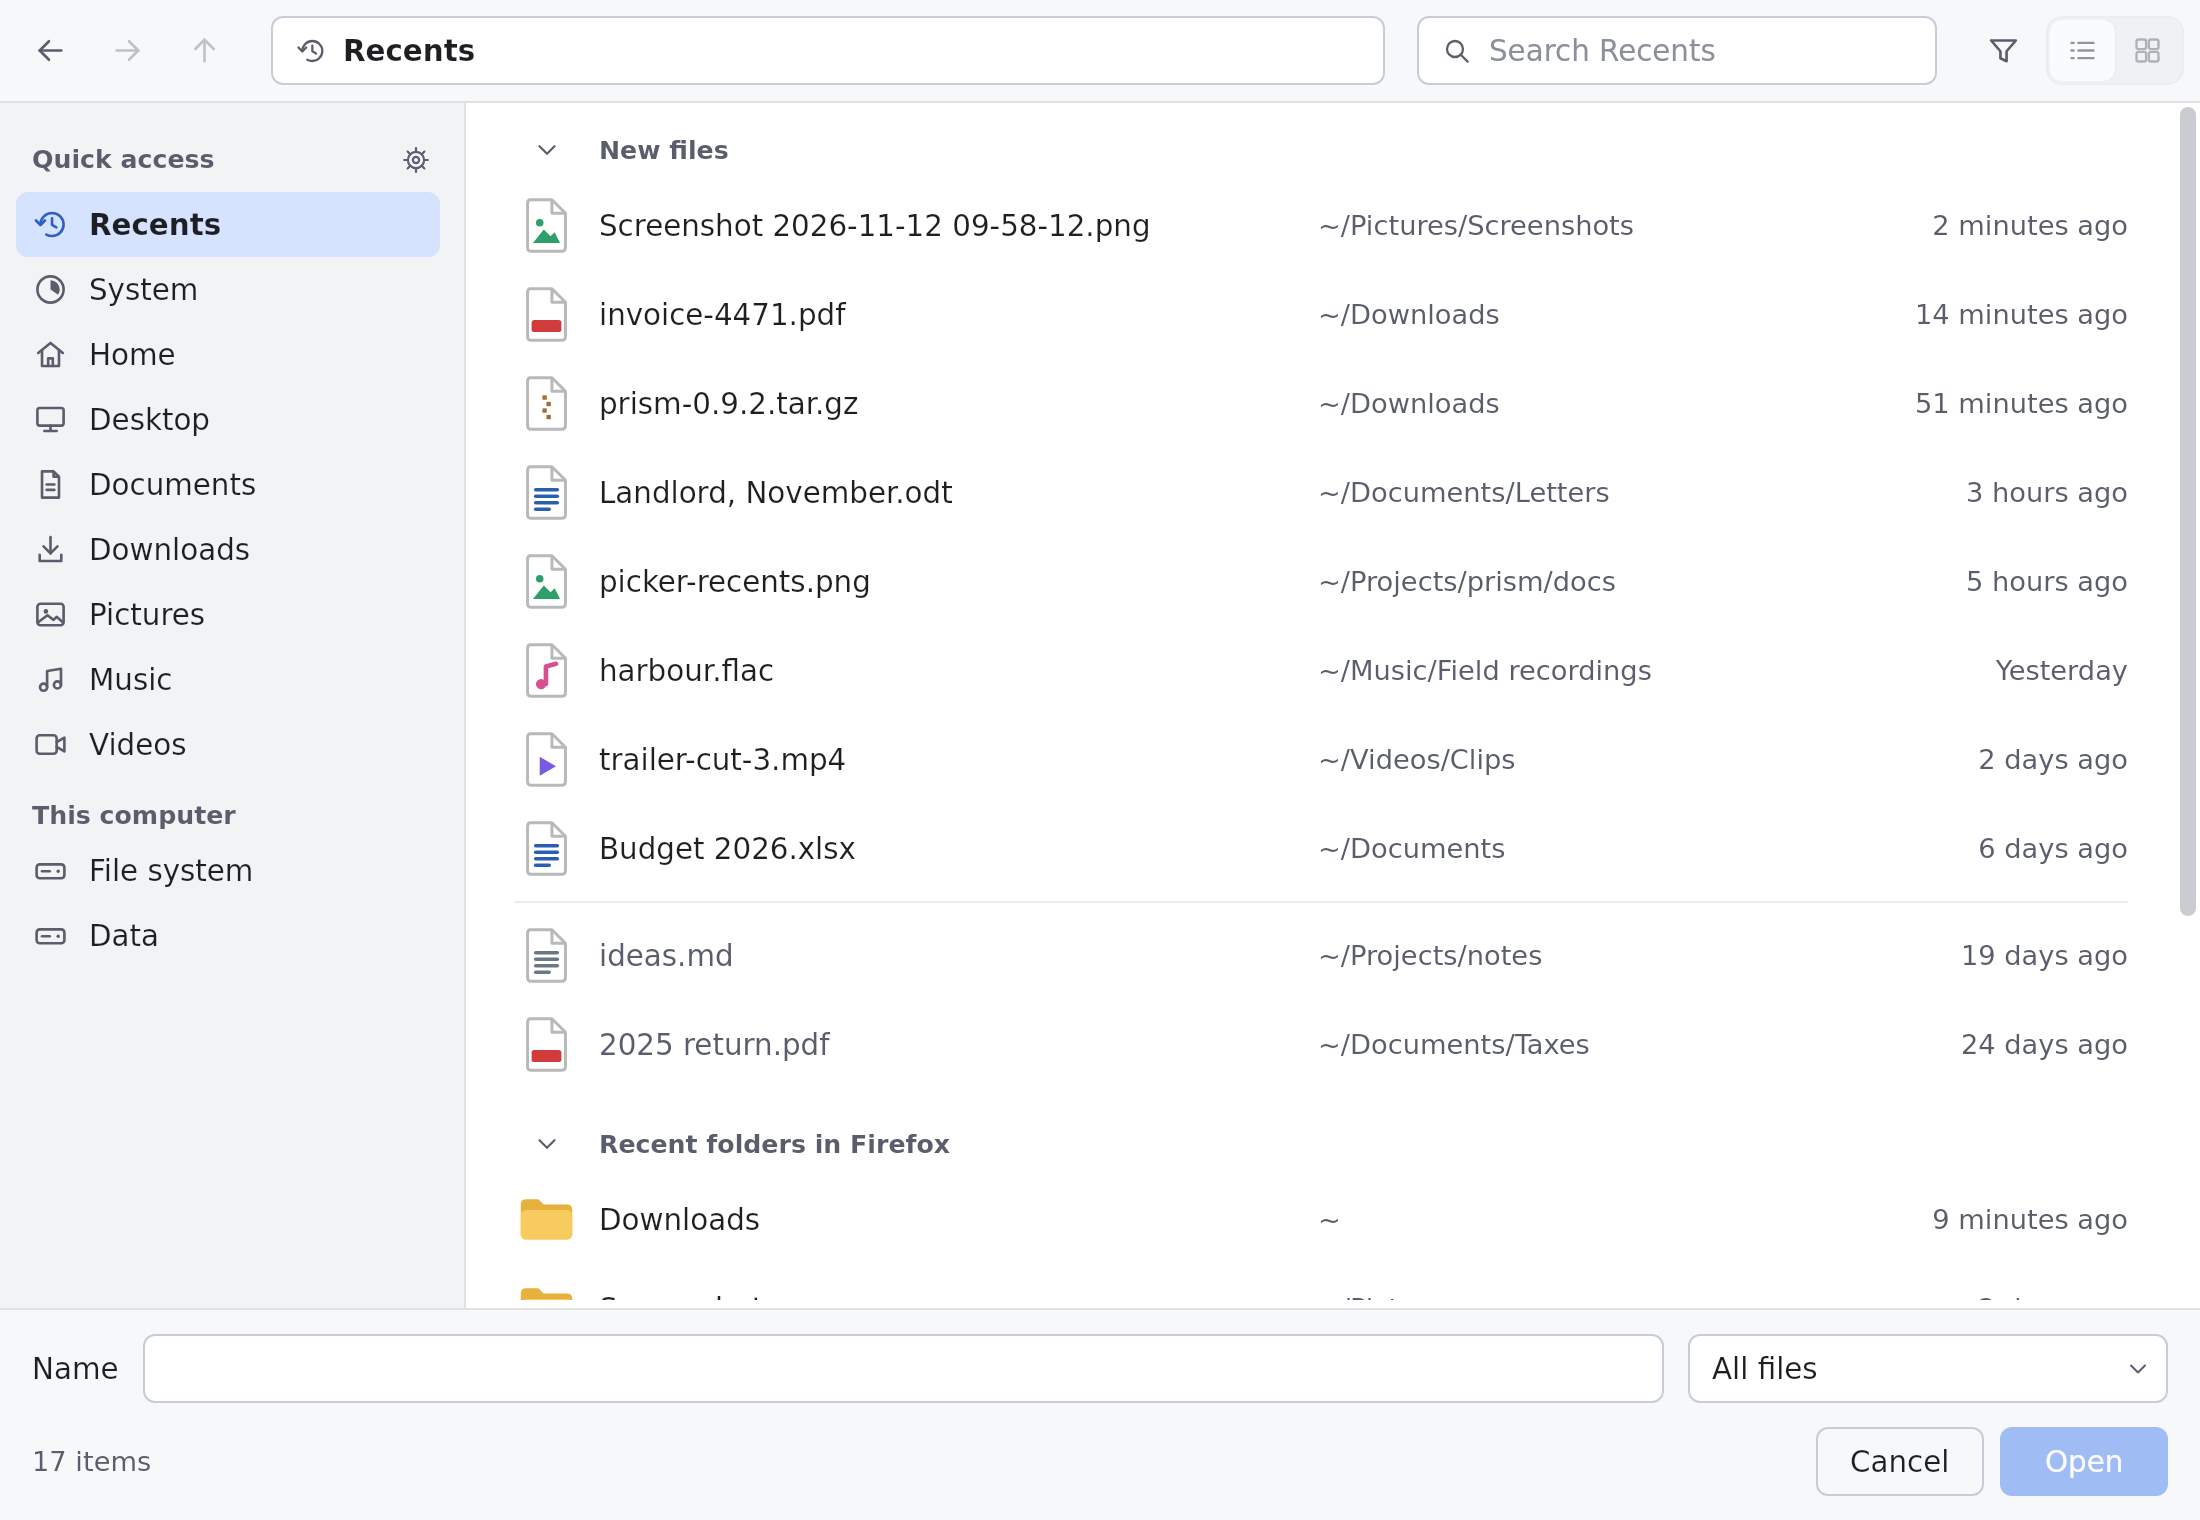
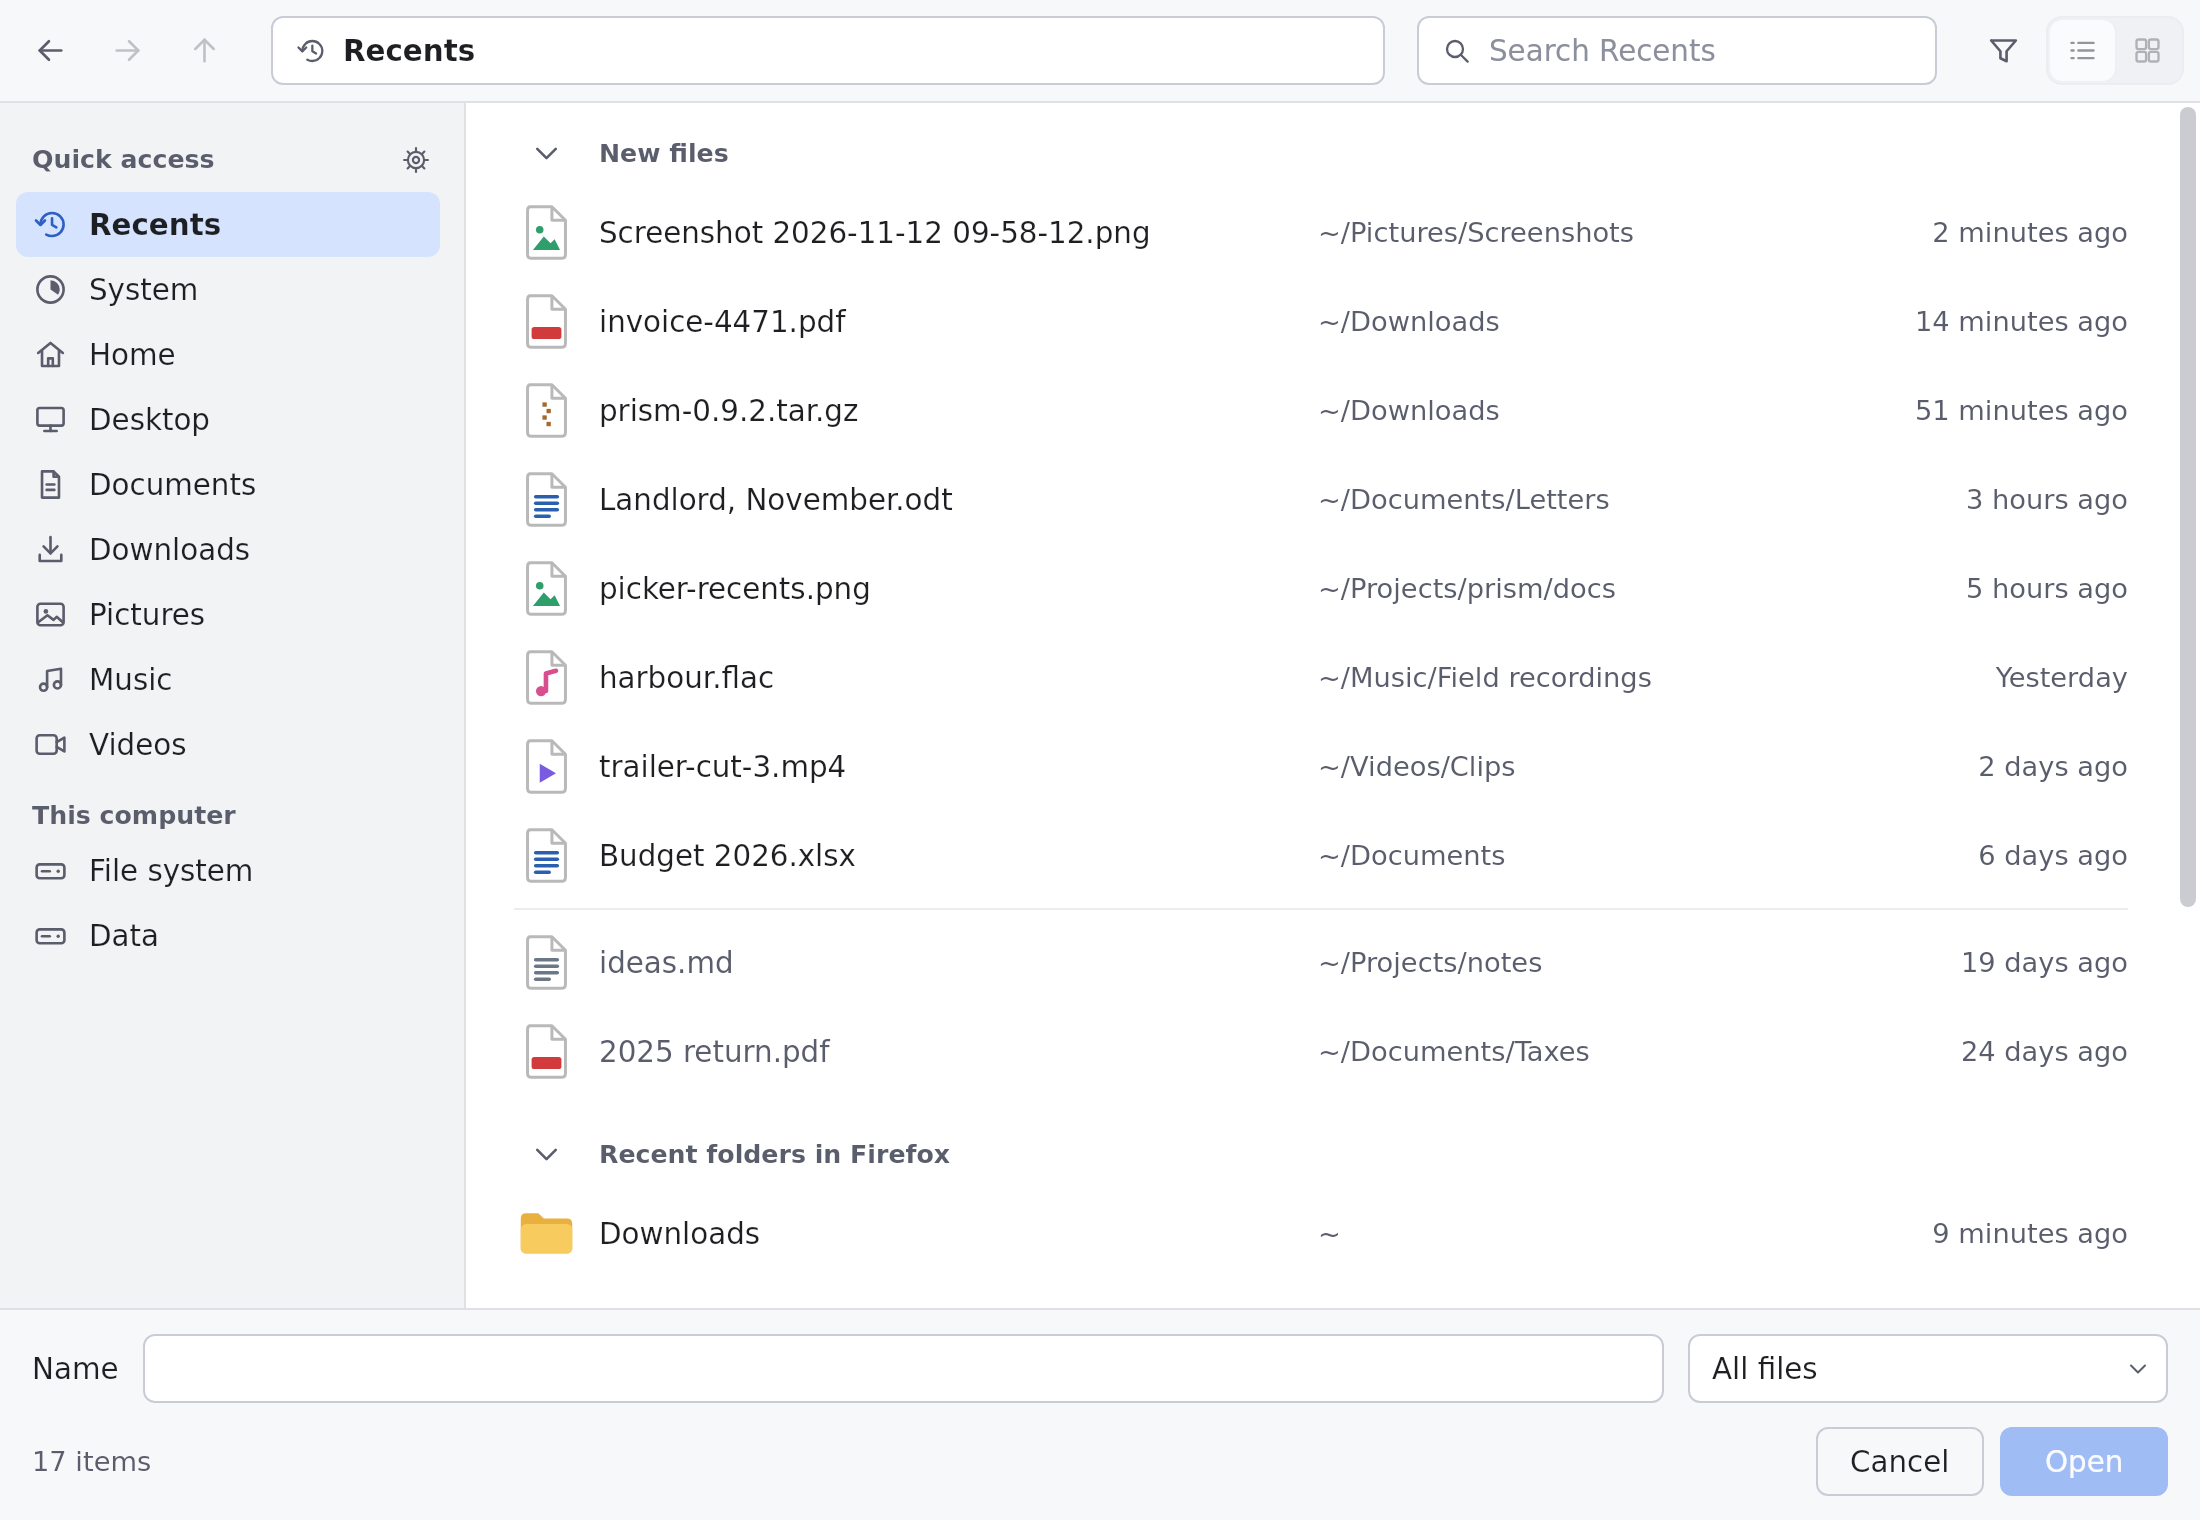
A Recents heading is folded by the System page's button, which alone is lit under the pointer
The heading was lit from one edge of the listing to the other, as a row is, which a heading is not. Its arrow
is now the button that folds a store on the System page, at that size, over the rows' icons, with what it does
said as that page says it ("Hide files", "Show folders"). The title is still pressed to the same end, being the
larger thing to press, and only darkens under the pointer.

Claude-Session: https://claude.ai/code/session_01J1r69Jaca9mCPXayHaXTAB

diff --git a/browser/src/main/kotlin/prism/browser/recentsview.kt b/browser/src/main/kotlin/prism/browser/recentsview.kt
@@ -16,7 +16,6 @@ import androidx.compose.foundation.layout.fillMaxWidth
 import androidx.compose.foundation.layout.height
 import androidx.compose.foundation.layout.padding
 import androidx.compose.foundation.layout.width
-import androidx.compose.foundation.shape.RoundedCornerShape
 import androidx.compose.material3.Text
 import androidx.compose.runtime.Composable
 import androidx.compose.runtime.getValue
@@ -24,7 +23,6 @@ import androidx.compose.runtime.remember
 import androidx.compose.runtime.rememberUpdatedState
 import androidx.compose.ui.Alignment
 import androidx.compose.ui.Modifier
-import androidx.compose.ui.graphics.Color
 import androidx.compose.ui.input.pointer.isPrimaryPressed
 import androidx.compose.ui.input.pointer.pointerInput
 import androidx.compose.ui.platform.testTag
@@ -126,9 +124,11 @@ internal fun RecentHeadings(
 }
 
 /**
- * A section's heading: an arrow (down where the section is open, across where it is collapsed), its title, and,
- * collapsed, how many entries it holds. All of it is pressed to collapse the section or open it, and says so under
- * the pointer. The arrow sits where the rows' icons do, and the title where their names start.
+ * A section's heading: the button that folds it (the System page's, for its stores: an arrow down where the section
+ * is open, across where it is collapsed), its title, and, collapsed, how many entries it holds. The button is
+ * pressed to collapse the section or open it, and so is the title, which is the larger thing to press; the button
+ * alone is lit under the pointer, and the title only darkens. The button sits over the rows' icons, and the title
+ * where their names start.
  */
 @Composable
 private fun RecentHeading(
@@ -144,68 +144,79 @@ private fun RecentHeading(
 	val toggle by rememberUpdatedState { onToggle(heading.kind.section) }
 	val does =
 		if (heading.collapsed)
-			"Expand"
+			"Show ${heading.kind.holds}"
 		else
-			"Collapse"
+			"Hide ${heading.kind.holds}"
+	// The rows' icons, which the button is centred over, and what is between an icon and its row's name.
+	val icon = rowIconOf(LocalRows.current, type) * zoom
+	val button = type.control
+	val named = (Space.s + Space.xxs) * zoom
 
 	Row(
 		Modifier
 			.padding(top = over)
 			.fillMaxWidth()
-			.background(
-				if (hovered)
-					palette.hover
-				else
-					Color.Transparent,
-				RoundedCornerShape(Radius.medium),
-			).hoverable(hover)
-			// Pressed as a row is: taken as it goes down, so that it is no press of the space between the rows.
-			.pointerInput(Unit) {
-				awaitEachGesture {
-					val down = awaitFirstDown()
-
-					if (currentEvent.buttons.isPrimaryPressed) {
-						down.consume()
-						waitForUpOrCancellation()?.let {
-							it.consume()
-							toggle()
-						}
-					}
-				}
-			}.semantics {
-				role = Role.Button
-				onClick(does) {
-					toggle()
-
-					true
-				}
-			}.testTag("recent-section:${heading.kind.title}")
-			.padding(horizontal = Dims.edge + Dims.cell, vertical = Space.s),
+			.padding(start = (Dims.edge + Dims.cell + (icon - button) / 2).coerceAtLeast(0.dp)),
 		verticalAlignment = Alignment.CenterVertically,
 	) {
-		Box(
-			Modifier.width(rowIconOf(LocalRows.current, type) * zoom),
-			contentAlignment = Alignment.Center,
+		ToolButton(
+			if (heading.collapsed)
+				Glyph.Chevron
+			else
+				Glyph.ChevronDown,
+			does,
+			enabled = true,
+			Modifier.testTag("recent-fold:${heading.kind.title}"),
+			onClick = toggle,
+		)
+		Spacer(Modifier.width((icon / 2 + named - button / 2).coerceAtLeast(Space.xs)))
+		Row(
+			Modifier
+				.hoverable(hover)
+				// Pressed as a row is: taken as it goes down, so that it is no press of the space between the rows.
+				.pointerInput(Unit) {
+					awaitEachGesture {
+						val down = awaitFirstDown()
+
+						if (currentEvent.buttons.isPrimaryPressed) {
+							down.consume()
+							waitForUpOrCancellation()?.let {
+								it.consume()
+								toggle()
+							}
+						}
+					}
+				}.semantics {
+					role = Role.Button
+					onClick(does) {
+						toggle()
+
+						true
+					}
+				}.testTag("recent-section:${heading.kind.title}")
+				.padding(vertical = Space.xs),
+			verticalAlignment = Alignment.CenterVertically,
 		) {
-			GlyphIcon(
-				if (heading.collapsed)
-					Glyph.Chevron
-				else
-					Glyph.ChevronDown,
-				palette.textMuted,
-				type.icon * 0.8f * zoom,
-			)
-		}
-		Spacer(Modifier.width((Space.s + Space.xxs) * zoom))
-		Text(heading.kind.title, style = type.heading.times(zoom), maxLines = 1)
-		if (heading.collapsed) {
-			Spacer(Modifier.width(Space.s))
 			Text(
-				heading.count.toString(),
-				style = type.muted.times(zoom),
+				heading.kind.title,
+				style =
+					type.heading.times(zoom).let {
+						if (hovered)
+							it.copy(color = palette.text)
+						else
+							it
+					},
 				maxLines = 1,
-				modifier = Modifier.testTag("recent-count:${heading.kind.title}"),
 			)
+			if (heading.collapsed) {
+				Spacer(Modifier.width(Space.s))
+				Text(
+					heading.count.toString(),
+					style = type.muted.times(zoom),
+					maxLines = 1,
+					modifier = Modifier.testTag("recent-count:${heading.kind.title}"),
+				)
+			}
 		}
 	}
 }

diff --git a/browser/src/test/kotlin/prism/browser/recentstest.kt b/browser/src/test/kotlin/prism/browser/recentstest.kt
@@ -3,13 +3,20 @@ package prism.browser
 import androidx.compose.runtime.CompositionLocalProvider
 import androidx.compose.runtime.remember
 import androidx.compose.runtime.rememberCoroutineScope
+import androidx.compose.ui.geometry.Size
+import androidx.compose.ui.graphics.toAwtImage
 import androidx.compose.ui.input.key.Key
 import androidx.compose.ui.test.ExperimentalTestApi
+import androidx.compose.ui.test.captureToImage
 import androidx.compose.ui.test.onNodeWithTag
+import androidx.compose.ui.test.onRoot
 import androidx.compose.ui.test.performClick
 import androidx.compose.ui.test.performKeyInput
+import androidx.compose.ui.test.performMouseInput
 import androidx.compose.ui.test.pressKey
 import androidx.compose.ui.test.runComposeUiTest
+import androidx.compose.ui.test.runSkikoComposeUiTest
+import androidx.compose.ui.unit.Density
 import java.nio.file.Files
 import java.nio.file.Path
 import java.time.Clock
@@ -980,6 +987,59 @@ class RecentsTest {
 		)
 	}
 
+	/**
+	 * A heading under the pointer: its button alone is lit, and nothing across the row. Drawn in a window of the
+	 * test's, since only there is there a pointer to rest on it; what it draws is kept where the pictures are.
+	 */
+	@OptIn(ExperimentalTestApi::class)
+	@Test
+	fun aHeadingsButtonAloneIsLitUnderThePointer() {
+		val picker = drawn(Choosing.OneFile(), asker)
+		val one = step(picker, Answer.RecentsFolded(setOf(RecentSection.NewFiles))).state
+
+		for ((tone, palette) in listOf("light" to Palette.Light, "dark" to Palette.Dark))
+			runSkikoComposeUiTest(Size(2200f, 1520f), Density(2f)) {
+				setContent {
+					BrowserTheme(palette) {
+						CompositionLocalProvider(LocalMotion provides false) { FileBrowser(one) }
+					}
+				}
+				waitForIdle()
+
+				// On the button: lit, and what it does said.
+				onNodeWithTag("recent-fold:Recent folders in Firefox").performMouseInput {
+					moveTo(center)
+				}
+				waitForIdle()
+				screenshot(
+					"recents-heading-hovered-button-$tone",
+					onRoot().captureToImage().toAwtImage().let { image ->
+						java.io
+							.ByteArrayOutputStream()
+							.also {
+								javax.imageio.ImageIO.write(image, "png", it)
+							}.toByteArray()
+					},
+				)
+
+				// On the title: only darker.
+				onNodeWithTag("recent-section:Recent folders in Firefox").performMouseInput {
+					moveTo(center)
+				}
+				waitForIdle()
+				screenshot(
+					"recents-heading-hovered-title-$tone",
+					onRoot().captureToImage().toAwtImage().let { image ->
+						java.io
+							.ByteArrayOutputStream()
+							.also {
+								javax.imageio.ImageIO.write(image, "png", it)
+							}.toByteArray()
+					},
+				)
+			}
+	}
+
 	// ---- in the browser ----------------------------------------------------------------------------------------
 
 	private fun picker(
@@ -1253,9 +1313,10 @@ class RecentsTest {
 				},
 			)
 
-			// A heading pressed collapses its section: the rows go, the heading stays and says how many it holds,
-			// and it is kept where every window reads it. Pressed again, they are back.
-			onNodeWithTag("recent-section:Recent folders").performClick()
+			// A heading's button pressed collapses its section: the rows go, the heading stays and says how many
+			// it holds, and it is kept where every window reads it. Its title pressed does as the button does: they
+			// are back.
+			onNodeWithTag("recent-fold:Recent folders").performClick()
 			waitUntil(timeoutMillis = 5_000) { session.state.value.rows.size == 1 }
 			waitForIdle()
 			onNodeWithTag("row:used").assertDoesNotExist()

diff --git a/browser/src/main/kotlin/prism/browser/recents.kt b/browser/src/main/kotlin/prism/browser/recents.kt
@@ -315,10 +315,14 @@ class RecentPage(
 		/** Which section it is, whoever the page is for: what the user collapses, and what is kept of that. */
 		val section: RecentSection
 
+		/** What its entries are, as what folds it says: "Hide files". */
+		val holds: String
+
 		/** The files the index saw made last. */
 		data object NewFiles : Kind {
 			override val title: String get() = "New files"
 			override val section: RecentSection get() = RecentSection.NewFiles
+			override val holds: String get() = "files"
 		}
 
 		/** The folders the application that asked was last answered from. */
@@ -327,12 +331,14 @@ class RecentPage(
 		) : Kind {
 			override val title: String get() = "Recent folders in $name"
 			override val section: RecentSection get() = RecentSection.Application
+			override val holds: String get() = "folders"
 		}
 
 		/** The folders any application was last answered from. */
 		data object Folders : Kind {
 			override val title: String get() = "Recent folders"
 			override val section: RecentSection get() = RecentSection.Folders
+			override val holds: String get() = "folders"
 		}
 	}
 

diff --git a/docs/picker.md b/docs/picker.md
@@ -185,8 +185,10 @@ dragged, renamed and given a menu as a folder's are (the menu adds "Show in fold
 too); a folder is gone into, and a file is opened, chosen, or asked to be replaced, as the picker is for. The page is
 always a list, in its own order.
 
-Each section's heading has an arrow before its title, and the whole heading is pressed to collapse the section to the
-heading alone, or to open it again. Collapsed, the heading says how many entries the section holds ("New files 10"),
+Each section's heading has, before its title, the button that folds a store on the System page (an arrow down where
+the section is open, across where it is collapsed; "Hide files", "Show folders"). The button is pressed to collapse
+the section to the heading alone, or to open it again, and so is the title; under the pointer the button alone is
+lit, and the title only darkens. Collapsed, the heading says how many entries the section holds ("New files 10"),
 and those entries are not rows of the listing: the cursor, Select all, a name typed and the status line's count pass
 them by, and a cursor or a selection that was on them leaves (the cursor to the nearest row left). Which sections are
 collapsed is the user's, not a window's: it is kept in the preferences (`recentsCollapsed`, by the kind of section,
